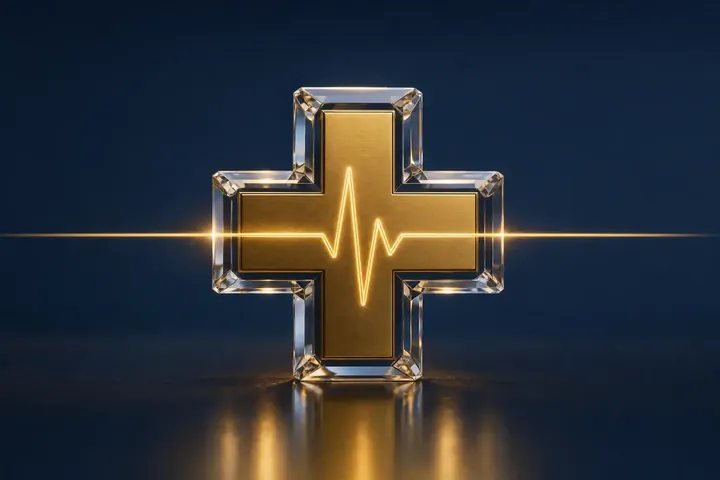
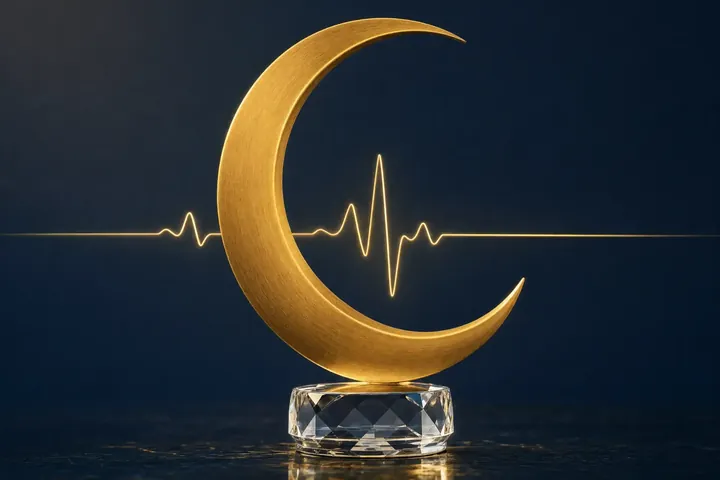
Health sector picture: a crescent, not a cross (workspace constitution rule 11)

diff --git a/docs/design/HIGGSFIELD_VISUALS_ar.md b/docs/design/HIGGSFIELD_VISUALS_ar.md
@@ -29,7 +29,7 @@
 
 ## التكلفة
 
-- **الصور:** 14 صورة. عشر منها بنسبة محددة بنحو 0.21 دولار للصورة. وأربع بنسبة `auto` بنحو 0.375 دولار للصورة، وهي صور القطاعات ذات الأولوية التي أُضيفت لتكتمل القطاعات العشرة (الفنادق، المقاولات، اللحوم، التسويق الرقمي).
+- **الصور:** 15 صورة (الخامسة عشرة: إعادة توليد صورة الصحة بالهلال، 0.376 دولار). عشر منها بنسبة محددة بنحو 0.21 دولار للصورة. وأربع بنسبة `auto` بنحو 0.375 دولار للصورة، وهي صور القطاعات ذات الأولوية التي أُضيفت لتكتمل القطاعات العشرة (الفنادق، المقاولات، اللحوم، التسويق الرقمي).
 - **الفيديوهات:** اثنان بنحو 0.21 دولار لكل منهما.
 - **المجموع:** 3.79 دولار، والرصيد نزل من 16.40 إلى 12.61 دولار.
 
@@ -41,7 +41,7 @@
 |---|---|
 | الباب | بلورات ذهبية عائمة وخطوط دفتر ذهبية صاعدة كمخطط نمو، مع فراغ لنص العنوان |
 | الشريط | خطوط ذهبية تنساب يساراً إلى يمين وتصنع منحنى صاعداً بعُقد مضيئة |
-| الصحة | صليب طبي ذهبي وكريستالي يمر به خط نبض ذهبي |
+| الصحة | هلال ذهبي على قاعدة كريستال يمر به خط نبض ذهبي (أُعيد توليدها بعد قاعدة الدستور §3.0‑11: الهلال لا الصليب؛ الصورة الأولى كانت صليبًا) |
 | التعليم | كتاب مفتوح ذهبي تتحول صفحاته إلى كريستال، وقبعة تخرّج |
 | المصانع | ثلاثة تروس متعشّقة: اثنان ذهبيان وواحد كريستالي |
 | المخابز | رغيف ذهبي وسنابل قمح وحبات كريستال |
